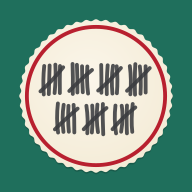
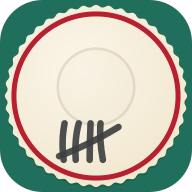
New mat artwork: tally strokes at the edge, glass ring in the middle; counting-up loader while searching

diff --git a/app.js b/app.js
@@ -103,6 +103,10 @@ const DE = {
     "1. {name} scannt diesen Code (Bierdeckel → {you} → „Per QR-Code abgleichen“ → „Seinen Code scannen“). 2. Dann scannst du seinen.",
   "The code changes by itself. Hold it steady until it is complete.": "Der Code wechselt von selbst. Halte die Kamera ruhig, bis alles gelesen ist.",
   "Scan their code": "Seinen Code scannen",
+  "Looking for {name} nearby…": "Sucht {name} in der Nähe…",
+  "Looking for {name}…": "Sucht {name}…",
+  "Looking for a code…": "Sucht einen Code…",
+  "Loading…": "Lädt…",
   "Scan with Google Lens": "Mit Google Lens scannen",
   "Google Lens was not found on this phone.": "Google Lens wurde auf diesem Handy nicht gefunden.",
   "Open this in the Bierdeckel app so it lands in your book.": "Öffne das in der Bierdeckel-App, damit es in deinem Deckel landet.",
@@ -172,6 +176,35 @@ function h(tag, attrs, ...kids) {
   }
   for (const k of kids.flat()) if (k != null && k !== false) el.append(k instanceof Node ? k : document.createTextNode(String(k)));
   return el;
+}
+// A pencil counting up: four strokes, then a fifth across them, group after group.
+function tallyLoader(label) {
+  const NS = "http://www.w3.org/2000/svg";
+  const svg = document.createElementNS(NS, "svg");
+  svg.setAttribute("class", "tally"); svg.setAttribute("viewBox", "0 0 132 34"); svg.setAttribute("aria-hidden", "true");
+  const box = h("div", { class: "loading" }, svg, label ? h("span", {}, label) : null);
+  const GW = 30, N = 4; // group width, groups before starting over
+  let n = 0;
+  const line = (x1, y1, x2, y2, len) => {
+    const l = document.createElementNS(NS, "line");
+    l.setAttribute("x1", x1); l.setAttribute("y1", y1); l.setAttribute("x2", x2); l.setAttribute("y2", y2);
+    l.style.strokeDasharray = len; l.style.strokeDashoffset = len;
+    svg.append(l); requestAnimationFrame(() => { l.style.strokeDashoffset = 0; });
+  };
+  let placed = false;
+  const tick = () => {
+    if (box.isConnected) placed = true;            // the first tick runs before it is on the page
+    else if (placed) return clearInterval(timer);  // gone from the page: stop counting
+    const g = Math.floor(n / 5), k = n % 5;
+    if (n && n % (N * 5) === 0) { svg.replaceChildren(); n = 0; return; }
+    const left = 6 + (g % N) * GW;
+    if (k < 4) line(left + k * 5.5 + 1, 5, left + k * 5.5, 29, 24);
+    else line(left - 2, 26, left + 20, 8, 29);
+    n++;
+  };
+  const timer = setInterval(tick, 260);
+  tick();
+  return box;
 }
 function toast(msg) {
   document.querySelectorAll(".toast").forEach(t => t.remove());
@@ -271,11 +304,13 @@ function setupConn(c) {
 const BT = window.BierdeckelAndroid && typeof window.BierdeckelAndroid.bleStart === "function" ? window.BierdeckelAndroid : null;
 const btConns = new Map();
 let btWarned = false;
+let btSearching = false;
 function btStart() { if (BT && S) try { BT.bleStart(S.me.id, JSON.stringify(Object.keys(S.contacts))); } catch (e) { console.warn("bt", e); } }
 window.bleEvent = (type, id, data) => {
   if (type === "log") {
     console.log("[BT]", data);
-    if (data === "bluetooth off" && !btWarned) { btWarned = true; toast(t("Turn on Bluetooth to sync with friends nearby.")); }
+    if (data === "bluetooth off") { btSearching = false; if (!btWarned) { btWarned = true; toast(t("Turn on Bluetooth to sync with friends nearby.")); } render(); }
+    if (data === "advertising" || data === "started") { if (!btSearching) { btSearching = true; render(); } }
     return;
   }
   if (type === "open") {
@@ -589,6 +624,7 @@ function friendView() {
       h("div", { class: "row" }, initial(f), h("div", { class: "grow" }, h("h1", {}, fn),
         h("div", { class: "sub" }, conns.has(f) ? connLabel(f) : c.lastSeen ? t("Last synced {date}", { date: when(c.lastSeen) }) : t("Not synced yet. Open the app at the same time.")))),
       h("div", { class: "big" }, balanceLabel(v)),
+      conns.has(f) ? null : tallyLoader(BT && btSearching ? t("Looking for {name} nearby…", { name: fn }) : t("Looking for {name}…", { name: fn })),
       conns.has(f) ? null : h("div", { class: "card attn" }, h("p", {}, t("Not connected? Sync right here: you scan each other's code once.")),
         h("button", { class: "primary", onclick: () => openSync(f) }, t("Sync by QR code"))),
       v !== 0 ? h("div", {}, h("button", { onclick: () => { kind.value = v > 0 ? "theyPaid" : "iPaid"; amt.value = (Math.abs(v) / 100).toFixed(2); note.value = t("Settled in full"); amt.focus(); } }, t("Record full payback"))) : null),
@@ -741,7 +777,7 @@ async function startScan() {
   let done = false;
   const stop = () => { done = true; stream.getTracks().forEach(t => t.stop()); overlay.remove(); };
   const overlay = h("div", { style: "position:fixed;inset:0;z-index:10;background:var(--bg);padding:max(20px,env(safe-area-inset-top)) 16px 20px;display:flex;flex-direction:column;gap:14px" },
-    h("h2", {}, t("Point at your friend's code")), video, h("button", { onclick: stop }, t("Cancel")));
+    h("h2", {}, t("Point at your friend's code")), video, tallyLoader(t("Looking for a code…")), h("button", { onclick: stop }, t("Cancel")));
   document.body.append(overlay);
   video.srcObject = stream; await video.play().catch(() => { });
   const tick = async () => {

diff --git a/style.css b/style.css
@@ -76,3 +76,8 @@ video.scan { width: 100%; border-radius: 12px; background: #000 }
 a { color: var(--accent) }
 
 .qr-big { width: min(92vw, 420px); margin: 0 auto }
+
+/* counting-up loader: pencil strokes in groups of five */
+.loading { display: flex; align-items: center; gap: 10px; padding: 10px 2px; color: var(--muted); font-size: 0.92rem }
+.tally { width: 92px; height: 24px; flex: none }
+.tally line { stroke: var(--accent); stroke-width: 2.6; stroke-linecap: round; transition: stroke-dashoffset .22s ease-out }

diff --git a/sw.js b/sw.js
@@ -1,5 +1,5 @@
 // Offline cache for the app shell. Bump VERSION when files change.
-const VERSION = "bierdeckel-v15";
+const VERSION = "bierdeckel-v16";
 const FILES = ["./", "index.html", "style.css", "app.js", "ledger.js", "manifest.webmanifest", "icon-192.png", "icon-512.png", "mat.svg",
   "vendor/peerjs.min.js", "vendor/qrcode.js", "vendor/jsQR.js"];
 self.addEventListener("install", e => { e.waitUntil(caches.open(VERSION).then(c => c.addAll(FILES))); self.skipWaiting(); });

diff --git a/index.html b/index.html
@@ -14,7 +14,7 @@
 </head>
 <body>
 <div id="net" class="net" hidden></div>
-<main id="app"><p class="sub">…</p></main>
+<main id="app"><p class="sub">Lädt…</p></main>
 <script src="vendor/peerjs.min.js"></script>
 <script src="vendor/qrcode.js"></script>
 <script src="vendor/jsQR.js"></script>
